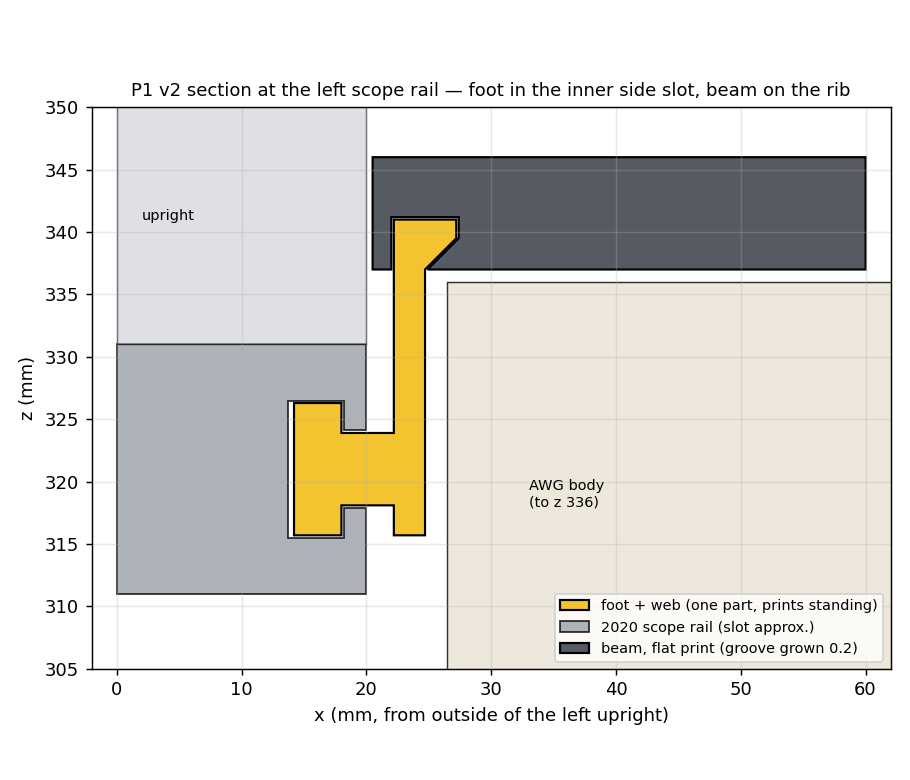
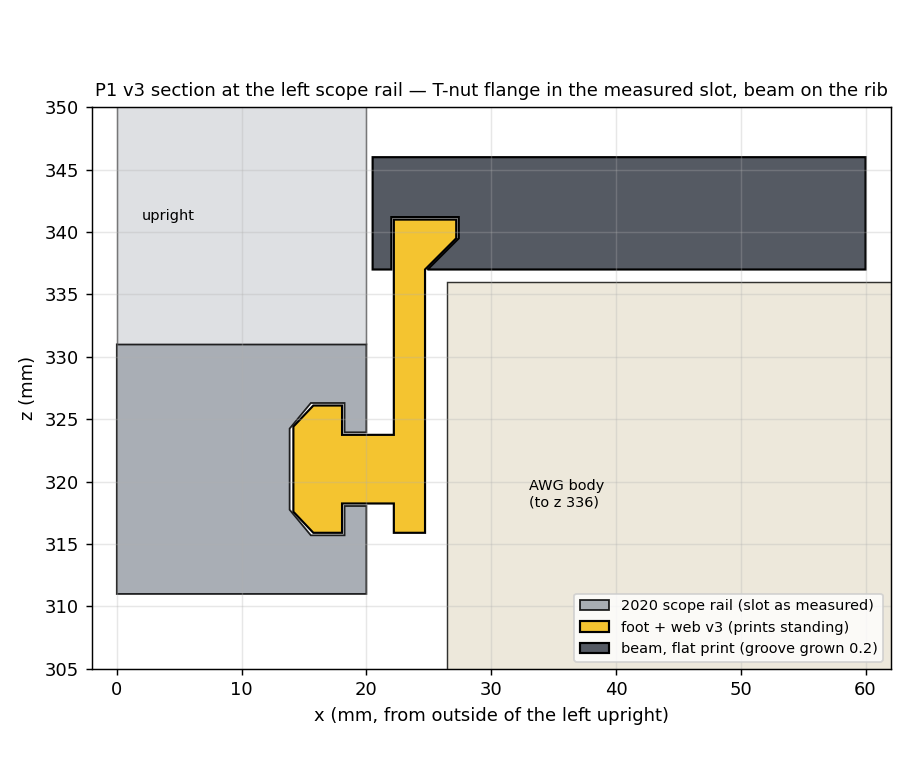
P1 v3: T-nut flange from the measured slot (mouth 5.9, cavity 10.6, throat 4.45, bottom 6.5 at 6.15)
The CNCMANS 2020 slot is a standard T-slot with a ~45 deg throat, not a square cavity: fit.py now carries the
measured SLOT_* numbers and derives the neck (5.5) and flange (10.2, chamfered to 6.8 at the bottom) from them
with SLOT_CLR 0.2 per side. src/parts/sled_foot.py rebuilt on those; coupons/p1 regenerated (foot-40 v3,
beam-40 unchanged from v2, p1-plate, section drawing with the real slot profile). Foot may print in yellow PETG
for the fit test. Cut sheet ticked; P9 and P6 printed.

Claude-Session: https://claude.ai/code/session_01VQAymzj3iaQ4w2Fyn1UmZY

diff --git a/src/parts/sled_foot.py b/src/parts/sled_foot.py
@@ -1,40 +1,48 @@
-# Sled T-foot + web (HANDOVER §4, PRINT-RULES §2) — one inverted-T part per side, 210 long, running in the scope
+# Sled T-foot + web (HANDOVER §4, PRINT-RULES §2) — one hammer-nut-shaped part per side, 210 long, running in the scope
 # rail's INNER side slot (rail z 311–331, slot centre z 321, mouth open toward +x at the rail face x 20).
+# Slot as measured (fit.py SLOT_*): mouth 5.9, lip 1.75, cavity 10.6 wide down to 4.45 from the face, then ~45° walls to a
+# 6.5 flat at 6.15. The flange is a T-nut section: full width behind the lips, chamfered to the bottom.
 #
 # Section, world coordinates (left side; the right side is the same part turned end for end):
-#   flange  x 14.2–18.0 (3.8 thick) × z 315.7–326.3 (10.6 tall)   inside the slot cavity, 0.2 behind the lip
-#   neck    x 18.0–22.2 (4.2 long)  × z 318.1–323.9 (5.8 wide)    through the 6.2 mouth (1.8 lip + 2.2 stand-off + 0.2)
-#   web     x 22.2–24.7 (2.5 thick) × z 315.7–341                 beside the upright; the AWG body is at x 26.5 (its 3.5 proud
-#                                                               front bezel at x 23 is only ~10 deep — the foot never reaches it)
+#   flange  x 14.15–18.05: 6.8 wide at the bottom (x 14.15) widening at ~47° to 10.2 at x 15.75, full width to x 18.05
+#           (0.2 off the lip underside at 18.25); z centred on 321
+#   neck    x 18.05–22.2 (4.15 long) × z 318.25–323.75 (5.5 wide)  through the 5.9 mouth
+#   web     x 22.2–24.7 (2.5 thick) × z 315.9–341                  beside the upright; AWG body at x 26.5
 #   rib     x 22.2–27.2 × z 337–341 (top 4 mm of the web, inside the beam): widens 2.5 → 5.0 toward +x at 45°.
 # The beam (z 337–346, outer face x 20.5) carries a closed dovetail groove in its underside (beam_groove()): 1.5 wall outside
 # the web, 45° flank inboard, 5.4 mm ceiling — a bridge when the beam prints flat. Each beam half threads on from the FRONT.
 #
-# Print orientation: STANDING on the flange and web bottom edges (world z up), layers along the slide. The neck and flange
-# grow toward −x and the rib toward +x, so neither web face can be the bed (rule 3); standing, the flange and web are plain
-# vertical walls, the rib flank is a 45° face, and the only downward face is the neck's underside — a 2.5 mm bridge between
-# flange and web (rule 4 allows < 12). Neck width 5.8 = 29 layers exactly. Bed edges get the 0.4 chamfer (rule 7).
-# Print frame: X = world y (length), Y = world x − 14.2 (flange back face), Z = world z − 315.7 (flange bottom).
+# Print orientation: STANDING on the flange and web bottom edges (world z up), layers along the slide. Flange faces and web
+# are vertical walls, the flange chamfers and rib flank are ≥45° faces, the only downward face is the neck's underside —
+# a 4.15 mm bridge between flange and web. Bed edges get the 0.4 chamfer (rule 7).
+# Print frame: X = world y (length), Y = world x − 14.15 (flange bottom), Z = world z − 315.9 (flange lower edge).
 import os, sys, cadquery as cq
 sys.path.insert(0, os.path.join(os.path.dirname(os.path.abspath(__file__)), ".."))
-from fit import SLOT_FOOT_W, SLOT_FOOT_T, WEB_T, SLOT_LIP_T, FOOT_STANDOFF, FLANGE_GAP, FOOT_FLANGE_W, RIB_H, RIB_W, WEB_RIB_CLR, BEAM_WALL
+from fit import (SLOT_MOUTH, SLOT_LIP_T, SLOT_CAVITY_W, SLOT_THROAT_D, SLOT_DEPTH, SLOT_BOTTOM_W, SLOT_CLR, SLOT_FOOT_W,
+                 FOOT_FLANGE_W, FLANGE_GAP, FOOT_STANDOFF, WEB_T, RIB_H, RIB_W, BEAM_WALL, WEB_RIB_CLR)
 
-NECK_L   = SLOT_LIP_T + FOOT_STANDOFF + FLANGE_GAP          # 4.2: x 18.0–22.2
-Y_NECK1  = SLOT_FOOT_T + NECK_L                             # 8.0: web outer face (world x 22.2)
-Y_WEB1   = Y_NECK1 + WEB_T                                  # 10.5: web inner face (world x 24.7)
-Y_RIB    = Y_NECK1 + RIB_W                                  # 13.0 (world x 27.2)
-Z_NECK0  = (FOOT_FLANGE_W - SLOT_FOOT_W) / 2                # 2.4  (world z 318.1)
-Z_NECK1  = Z_NECK0 + SLOT_FOOT_W                            # 8.2  (world z 323.9)
-Z_BEAM   = 337.0 - 315.7                                    # 21.3 (beam underside)
-Z_TOP    = Z_BEAM + RIB_H                                   # 25.3 (web/rib top, world z 341)
-RIB_GROW = RIB_W - WEB_T                                    # 2.5, at 45° over the first 2.5 of the rib
+X_BOTTOM  = 20.0 - (SLOT_DEPTH - 0.3)                    # 14.15: flange bottom, 0.3 off the cavity floor
+Y_TOP     = (20.0 - SLOT_LIP_T - FLANGE_GAP) - X_BOTTOM  # 3.9: flange top face (lip side)
+Y_CH      = (20.0 - SLOT_THROAT_D + SLOT_CLR) - X_BOTTOM # 1.75: full width ends here, chamfer runs down to Y 0
+W_BOT     = SLOT_BOTTOM_W + 2 * (0.3 * (SLOT_CAVITY_W - SLOT_BOTTOM_W) / 2 / (SLOT_DEPTH - SLOT_THROAT_D)) - 2 * SLOT_CLR  # 6.8
+HALF, HALF_B = FOOT_FLANGE_W / 2, W_BOT / 2              # 5.1, 3.4
+ZC        = HALF                                         # slot centre (world z 321) in the print frame
+Z_NECK0, Z_NECK1 = ZC - SLOT_FOOT_W / 2, ZC + SLOT_FOOT_W / 2   # 2.35 / 7.85
+Y_NECK1   = Y_TOP + SLOT_LIP_T + FLANGE_GAP + FOOT_STANDOFF     # 8.05: web outer face (world x 22.2)
+Y_WEB1    = Y_NECK1 + WEB_T                                     # 10.55
+Y_RIB     = Y_NECK1 + RIB_W                                     # 13.05
+Z0_WORLD  = 321.0 - ZC                                          # 315.9
+Z_BEAM    = 337.0 - Z0_WORLD                                    # 21.1 (beam underside)
+Z_TOP     = Z_BEAM + RIB_H                                      # 25.1 (web/rib top, world z 341)
+RIB_GROW  = RIB_W - WEB_T
 
 def foot_section():
-    """(Y, Z) polygon of the foot in the print frame, counter-clockwise."""
-    return [(0, 0), (SLOT_FOOT_T, 0), (SLOT_FOOT_T, Z_NECK0), (Y_NECK1, Z_NECK0),        # flange bottom, neck underside (bridge)
-            (Y_NECK1, 0), (Y_WEB1, 0), (Y_WEB1, Z_BEAM), (Y_RIB, Z_BEAM + RIB_GROW),        # web bottom, inner face, rib flank
-            (Y_RIB, Z_TOP), (Y_NECK1, Z_TOP), (Y_NECK1, Z_NECK1), (SLOT_FOOT_T, Z_NECK1),  # rib top, web outer face, neck top
-            (SLOT_FOOT_T, FOOT_FLANGE_W), (0, FOOT_FLANGE_W)]                                # flange front and back
+    """(Y, Z) polygon of the foot in the print frame, counter-clockwise from the flange's bottom bed edge."""
+    return [(Y_CH, 0), (Y_TOP, 0), (Y_TOP, Z_NECK0), (Y_NECK1, Z_NECK0),                 # flange bottom edge, neck underside (bridge)
+            (Y_NECK1, 0), (Y_WEB1, 0), (Y_WEB1, Z_BEAM), (Y_RIB, Z_BEAM + RIB_GROW),       # web bottom, inner face, rib flank
+            (Y_RIB, Z_TOP), (Y_NECK1, Z_TOP), (Y_NECK1, Z_NECK1), (Y_TOP, Z_NECK1),       # rib top, web outer face, neck top
+            (Y_TOP, FOOT_FLANGE_W), (Y_CH, FOOT_FLANGE_W),                                 # flange top face, full width
+            (0, ZC + HALF_B), (0, ZC - HALF_B)]                                            # chamfers to the 6.8 bottom
 
 def foot(length):
     """T-foot + web, `length` along X, standing (z = 0 on the bed), 0.4 chamfer on the bed edges."""
@@ -44,9 +52,8 @@ def foot(length):
 def beam_groove(length, clr=WEB_RIB_CLR):
     """Solid to CUT from a beam's underside so it threads onto the rib. Beam frame: X = length, Y = world x − 20.5 (0 at the
     outer face), Z = world z − 337 (0 at the underside). Mouth = web ± clr, 45° flank inboard, ceiling RIB_H + clr up."""
-    y0 = 20.5 + BEAM_WALL - 20.5 - 0.0                     # outer wall inner face, beam frame (1.5)
-    y_web0 = (14.2 + Y_NECK1) - 20.5                       # web outer face in the beam frame (1.7)
-    assert y_web0 - clr >= y0 - 1e-6, "web collides with the beam's outer wall"
+    y_web0 = (X_BOTTOM + Y_NECK1) - 20.5                   # web outer face in the beam frame (1.7)
+    assert y_web0 - clr >= BEAM_WALL - 1e-6, "web collides with the beam's outer wall"
     g = RIB_GROW
     pts = [(y_web0 - clr, -1), (y_web0 + WEB_T + clr, -1), (y_web0 + WEB_T + clr, 0), (y_web0 + RIB_W + clr, g),
            (y_web0 + RIB_W + clr, RIB_H + clr), (y_web0 - clr, RIB_H + clr)]
@@ -56,4 +63,4 @@ if __name__ == "__main__":
     from printcheck import check
     OUT = os.path.normpath(os.path.join(os.path.dirname(os.path.abspath(__file__)), "..", "..", "parts")); os.makedirs(OUT, exist_ok=True)
     p = os.path.join(OUT, "sled-foot-210.stl")
-    cq.exporters.export(foot(210.0), p, tolerance=0.01, angularTolerance=0.1); check(p)
+    cq.exporters.export(foot(210.0), p, tolerance=0.01, angularTolerance=0.1); check(p, max_down_frac=1.0)

diff --git a/src/fit.py b/src/fit.py
@@ -2,19 +2,24 @@
 # them. Change a value here only when the coupon that owns it has passed (ROADMAP §3). Start values from ROADMAP v2.2.
 # Each entry: value, then the coupon that owns it and what PASS looks like.
 
-# P1 sled foot + web (src/parts/sled_foot.py)
-SLOT_FOOT_W    = 5.8    # neck width in the 6.2 slot mouth (6.2 - 0.4); slides by hand, no rock
-SLOT_FOOT_T    = 3.8    # flange thickness inside the slot cavity
-FOOT_FLANGE_W  = 10.6   # flange width inside the ~11 cavity; undersides 45° to the neck
-SLOT_LIP_T     = 1.8    # 2020 lip thickness, rail face -> inside of the lip (CNCMANS European 6.2 slot; P1 confirms)
+# P1 sled foot + web (src/parts/sled_foot.py). Slot measured on the CNCMANS 2020, 2026-09-19 (bar Z):
+SLOT_MOUTH     = 5.9    # between the lips
+SLOT_LIP_T     = 1.75   # outer face -> lip underside
+SLOT_CAVITY_W  = 10.6   # widest, just behind the lips
+SLOT_THROAT_D  = 4.45   # outer face -> where the cavity walls start angling in (full-width pocket ends)
+SLOT_DEPTH     = 6.15   # outer face -> cavity bottom
+SLOT_BOTTOM_W  = 6.5    # flat at the cavity bottom
+SLOT_CLR       = 0.2    # per side, foot to slot, everywhere (neck in the mouth, flange in the cavity)
+SLOT_FOOT_W    = SLOT_MOUTH - 2 * SLOT_CLR      # 5.5 neck width; slides by hand, no rock
+FOOT_FLANGE_W  = SLOT_CAVITY_W - 2 * SLOT_CLR   # 10.2 flange, full width from the lip gap to the throat, then ~45 deg to the bottom
+FLANGE_GAP     = 0.2    # flange top face -> lip underside
 FOOT_STANDOFF  = 2.2    # web outer face stands 2.2 off the rail face (x 20 -> 22.2) so the beam keeps a 1.5 outer wall
                         # outside the web (x 20.5-22.0) and its groove is closed on both sides -> beams print flat
-FLANGE_GAP     = 0.2    # flange face -> inside of the lip; neck length = LIP + STANDOFF + GAP = 4.2
-WEB_T          = 2.5    # web down the 3 mm gap between upright and AWG frame; must pass the 3.0 gauge
+WEB_T          = 2.5    # web beside the upright; must pass the 3.0 gauge
 RIB_H          = 4.0    # rib on the web's top edge, inside the beam (z 337-341)
 RIB_W          = 5.0    # rib widens from WEB_T to this toward +x at 45° (dovetail on the inboard side only)
 BEAM_WALL      = 1.5    # beam material outside the groove (x 20.5-22.0); groove mouth = web + WEB_RIB_CLR each side
-WEB_RIB_CLR    = 0.2    # beam rebate grown by this on the rib's fit faces (45° faces are layer-stepped: more than DOVETAIL_CLR)
+WEB_RIB_CLR    = 0.2    # beam groove grown by this on the rib's fit faces (45° faces are layer-stepped: more than DOVETAIL_CLR)
 
 # P2 PSU cradle (also AWG cradles: same saddle/clamp)
 RAIL_CLR       = 0.4    # saddle channel = 20 + RAIL_CLR across the rail — PASSED 2026-09-17 (flat, no rock, M5x10 ok)

diff --git a/src/coupons/p1_sled_foot.py b/src/coupons/p1_sled_foot.py
@@ -4,6 +4,7 @@
 #   beam-40:  40 x 39.5 x 9 stub of the sled beam with the closed dovetail groove in its underside, printed FLAT (as the
 #             production beam: cups and pockets open upward, the 5.4 groove ceiling is a bridge). Thread it onto the foot's
 #             rib from the end: slides, no lift, side play < 0.3. Foot in the rail: beam underside 6.0 (+-0.3) above the rail top.
+# v3 (2026-09-19): flange is a T-nut section from the measured slot (mouth 5.9, cavity 10.6, throat at 4.45, bottom 6.5 at 6.15).
 # v2 (2026-09-19): web moved to x 22.2 so the beam keeps a 1.5 outer wall and the groove is closed; v1 had an open rebate
 # that forced the beam top-face-down. The v1 foot still tests the slot fit; only the rib/groove pair changed.
 # Pass sets SLOT_FOOT_W / SLOT_LIP_T / WEB_T / WEB_RIB_CLR in fit.py. Output: coupons/p1/*.stl and p1-plate.stl.
@@ -24,4 +25,5 @@ for name, p in pieces.items():
     print(f"{name:8s} {bb.xlen:5.1f} x {bb.ylen:5.1f} x {bb.zlen:5.1f}  {p.val().Volume()/1000:5.1f} cm3")
     placed = p0.translate((0, x, 0)); plate = placed if plate is None else plate.add(placed); x += bb.ylen + 10
 cq.exporters.export(plate, os.path.join(OUT, "p1-plate.stl"), tolerance=0.01, angularTolerance=0.1)
-for name in pieces: check(os.path.join(OUT, f"{name}.stl"), max_down_frac=1.0)   # foot: neck underside = 4.2 mm bridge; beam: groove ceiling = 5.4 mm bridge
+check(os.path.join(OUT, "foot-40.stl"), min_rest_frac=0.2, max_down_frac=1.6)   # stands on two narrow edges (brim ok: no fit face on the bed); neck underside = 4.15 bridge
+check(os.path.join(OUT, "beam-40.stl"), max_down_frac=1.0)                       # groove ceiling = 5.4 mm bridge

diff --git a/ROADMAP.md b/ROADMAP.md
@@ -56,7 +56,7 @@ Done when: D1–D7 ticked, coupon STLs sliced, spacer set printed.
 | ☑ | 0.1a Order the 300 mm 4-pack (D1). | ordered 2026-09-15 |
 | ☑ | 0.1b D4, D5, D7 confirmed from `bench-stack-3d.html`; `drawer-quarters-v1.pdf` approved pending P7. | §0 all ☑ |
 | ☑ | 0.2 Create `src/fit.py` — one module holding every tuned clearance (table in §3), imported by every part script. Coupons exist to set these numbers; production parts read them. | `src/fit.py` |
-| ☐ | 0.3 Model the coupons in CadQuery, one script each under `src/coupons/`: **`p1_sled_foot.py` ☑** (v2 2026-09-19: web at x 22.2, closed beam groove; from `src/parts/sled_foot.py`, STLs in `coupons/p1/`), `p3_runner.py`, `p4_clip_tile.py`, `p5_hinge_magnet.py`, **`p6_pull.py` ☑** (`coupons/p6/`), **`p7_quarter_joint.py` ☑** (cropped from `src/parts/drawer_quarters.py`, STLs in `coupons/p7/`), `p8_tpu_foot.py`, **`p9_bumper_cup.py` ☑** (`coupons/p9/`). P2 is `psu_cradle.py` already. Each coupon is a literal section of the production part, in the production orientation, not a generic block. | STLs in `coupons/pN/` |
+| ☐ | 0.3 Model the coupons in CadQuery, one script each under `src/coupons/`: **`p1_sled_foot.py` ☑** (v3 2026-09-19: T-nut flange from the measured slot; v2: web at x 22.2, closed beam groove; from `src/parts/sled_foot.py`, STLs in `coupons/p1/`), `p3_runner.py`, `p4_clip_tile.py`, `p5_hinge_magnet.py`, **`p6_pull.py` ☑** (`coupons/p6/`), **`p7_quarter_joint.py` ☑** (cropped from `src/parts/drawer_quarters.py`, STLs in `coupons/p7/`), `p8_tpu_foot.py`, **`p9_bumper_cup.py` ☑** (`coupons/p9/`). P2 is `psu_cradle.py` already. Each coupon is a literal section of the production part, in the production orientation, not a generic block. | STLs in `coupons/pN/` |
 | ☑ | 0.4 Print the rail-height spacer set, any PETG: **48** (base top 20 → PSU rail 68), **139.5** (88 → 227.5), **63.5** (247.5 → 311), **159** (331 → 490), two of each, plus the 3.0 mm web gauge — `coupons/spacers/spacers-plate.stl`, flat as laid out, 2 walls, 10 % infill (`src/coupons/spacers.py`). | 9 small prints |
 | ☐ | 0.5 Fix HANDOVER open item 3: `layout_gen.py` scope rails 318–338 → 311–331, regenerate page 1. | `bench-stack-layout-v16.pdf` |
 | ☐ | 0.6 Slice coupon plates (§3): A = black ASA, B/C = yellow PETG, D = blue TPU. P1 and P9 sliced and printed (`bambu/01-coupons/`). | 4 `.3mf` |
@@ -88,7 +88,7 @@ Check: 510 × 4, 321 × 2, 310 × 10, 307 × 4, 179.5 × 2, 70 × 3. Deburr ever
 
 | Done | Plate | Material | Parts |
 |---|---|---|---|
-| ☐ | A | black ASA (production material — these are sliding pairs, friction and shrink matter) | P1 `coupons/p1/foot-40.stl` (T-foot + web + rib, prints standing) + `beam-40.stl` (grooved stub, prints flat) — `p1-plate.stl` has both (v2; the v1 print still tests the slot fit) · P3 runner 80 mm (the ASA half of the PETG-on-ASA pair) |
+| ☐ | A | black ASA (production material — these are sliding pairs, friction and shrink matter) | P1 `coupons/p1/foot-40.stl` (T-foot + web + rib, prints standing; v3 T-nut flange) + `beam-40.stl` (grooved stub, prints flat) — `p1-plate.stl` has both; yellow PETG is fine for the fit test, confirm in ASA before the 210 feet · P3 runner 80 mm (the ASA half of the PETG-on-ASA pair) |
 | ☑ | B | **yellow PETG** (house rule from 2026-09-17: every test and prototype part is yellow PETG unless the test depends on the production material) | P3 drawer-side stub 100 mm with rib · P4 60 × 60 hex tile with clips · P5 knuckle pair + 3 mm pin + magnet boss · **P9 `coupons/p9/p9-plate.stl`** (cup pad + stand-pocket pad, flat) · P7 (done — printed in black PETG before the rule) |
 | ☐ | C | yellow PETG | **P6 `coupons/p6/pull-60.stl` face down + `facia-80.stl` standing** (D9) — geometry test, colour irrelevant |
 | ☐ | D | blue TPU | P8 foot · one AWG pad · one sled-stop cap — proves all the TPU parts in one go |
@@ -123,7 +123,7 @@ ASA/ABS: filament preset, door closed, everything else as above. Saved in Bambu 
 
 | Done | Coupon | Pass when | Sets in `fit.py` | Gates (nothing here prints until PASS) | Start value |
 |---|---|---|---|---|---|
-| ☐ | **P1** sled foot + web | Foot slides in the inner side slot of a 2020 offcut by hand, no rock, can't lift out; web passes the 3.0 gauge; beam stub threads onto the rib from the end, no lift, side play < 0.3; beam underside 6.0 ± 0.3 above the rail's top face. | `SLOT_FOOT_W`, `SLOT_LIP_T`, `WEB_T`, `WEB_RIB_CLR` | Sled feet ×2, beams ×2, front bar, cross bars ×2, cable channel — the whole of §10.1 | foot 5.8 (6.2 − 0.4), web 2.5 |
+| ☐ | **P1** sled foot + web | Foot slides in the inner side slot of a 2020 offcut by hand, no rock, can't lift out; web passes the 3.0 gauge; beam stub threads onto the rib from the end, no lift, side play < 0.3; beam underside 6.0 ± 0.3 above the rail's top face. | `SLOT_CLR` (neck and flange), `WEB_T`, `WEB_RIB_CLR` | Sled feet ×2, beams ×2, front bar, cross bars ×2, cable channel — the whole of §10.1 | slot measured 2026-09-19: mouth 5.9, lip 1.75, cavity 10.6, throat at 4.45, bottom 6.5 at 6.15 → neck 5.5, T-nut flange 10.2 (v3) |
 | ☑ | **P2** PSU cradle | Saddle flat on the rail, foot seats in cup, M5×10 into T-nut pulls down, counterbore intact. **v2 (2026-09-17): saddle, bolts, counterbore PASS; cup FAIL** — printed Ø21.6 against a foot that is Ø16.8 at the pad, 19.5 at 4 mm up, 21.5 at the flange — 2 mm of slop. v3: conical cup matching the foot taper; coupon rounds A (0.5/0.6/0.7 net: all loose) and B (0.1/−0.1/−0.3 net: 0.1 best) set the cup at floor Ø17.0 / rim Ø19.7 with no shrink allowance, 1 mm 45° lead-in; self-centres. | `RAIL_CLR` ☑ 0.4, `CUP_CLR` ☑ 0.1 (cone, no shrink), `PSU_FOOT_PAD_D` 16.8, `PSU_FOOT_D4` 19.5 | PSU cradles ×3 more, AWG cradles ×4 (same saddle/clamp) | **PASSED 2026-09-17** — v3 perfect fit, sits on the rail perfectly. Releases PSU cradles ×3 and the AWG cradles. |
 | ☐ | **P3** drawer runner | Stub slides full length, side play < 0.5, no stick-slip dry or with PTFE. | `RUNNER_CLR` | Bottom-drawer runners, column guide strips ×4, mini-slot runner, all three drawer bodies | 0.3 |
 | ☐ | **P4** slot-clip tile | Snaps in by thumb, pulls out only with a tool, 10 cycles no cracks. | `CLIP_T`, `CLIP_BARB` | All 16 side pieces, door tile, 4 top tiles, 6 housing-top tiles (D2/D5) | 3 mm PETG, barb 0.6 |
